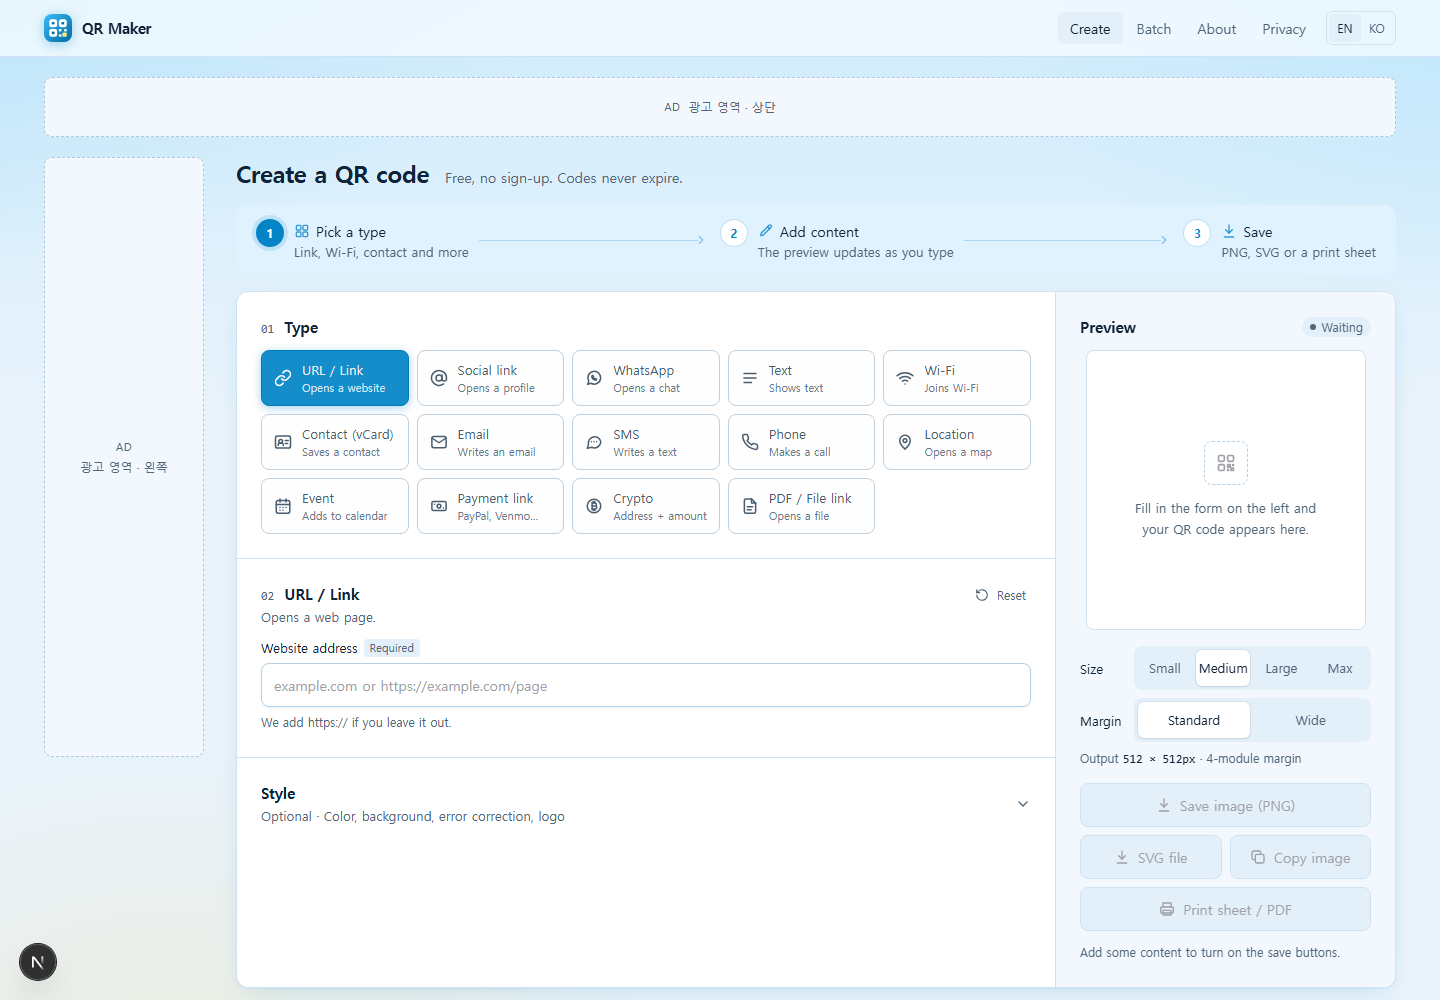
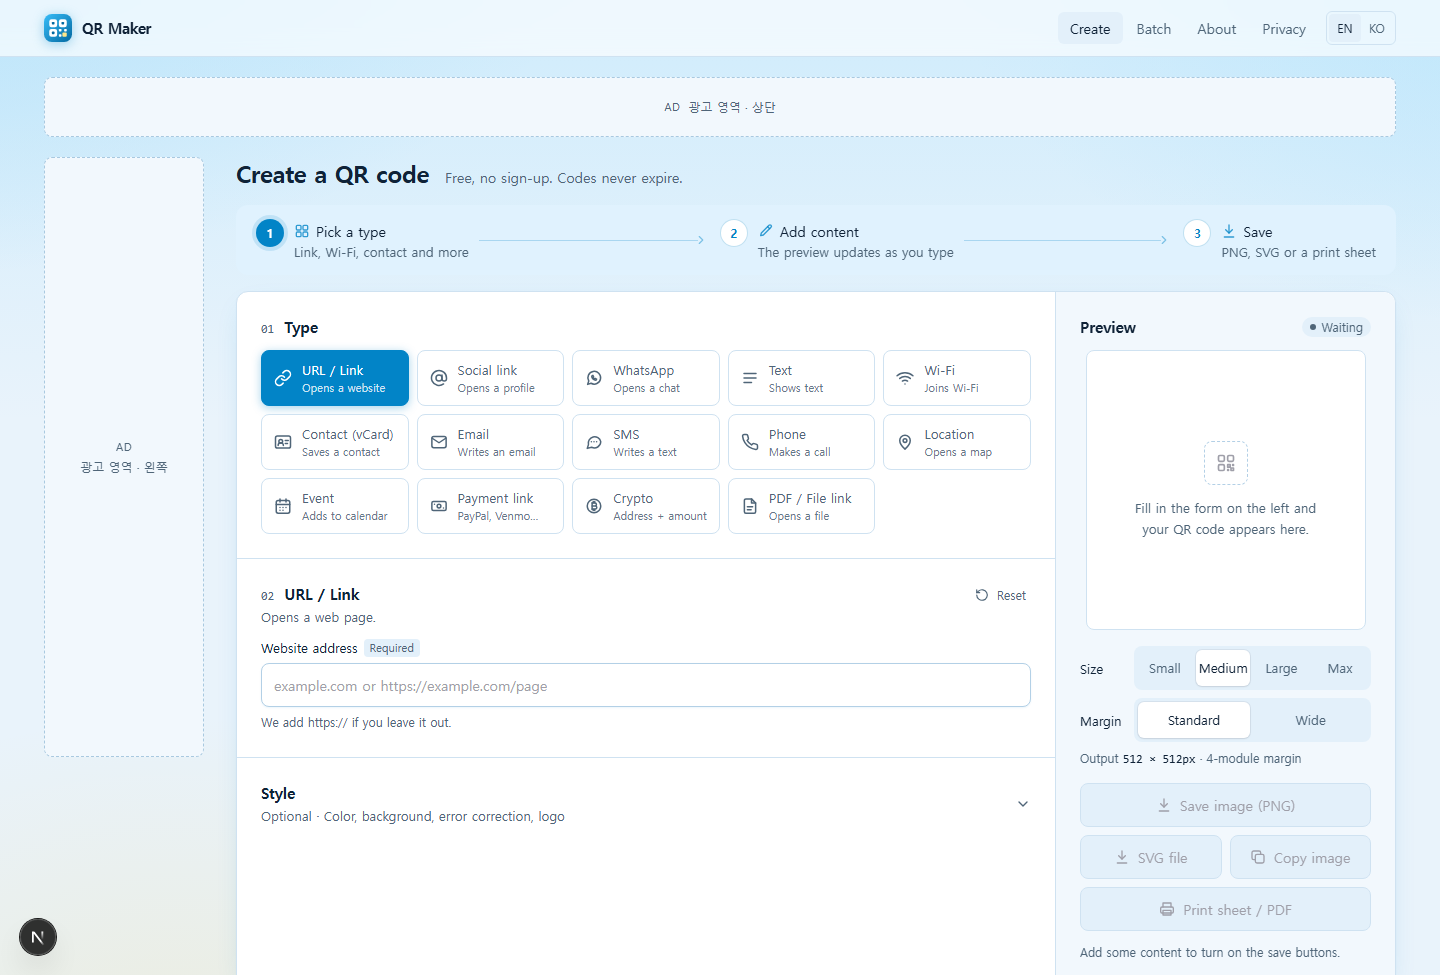
스크린샷 재촬영(카드 경계·모바일 390px 정확 크롭), ADR 6편, GitHub Actions CI

diff --git a/docs/adr/003-admin-hidden-behind-gate.md b/docs/adr/003-admin-hidden-behind-gate.md
@@ -1,0 +1,25 @@
+# ADR-003: 관리자 영역은 존재 자체를 숨긴다
+
+- 상태: 채택 (2026-10-02)
+- 결정자: 운영자
+
+## 맥락
+
+관리자는 운영자 1명이다. 공개 사이트의 `/admin`에 로그인 폼이 노출되면 무차별 대입·취약점 스캐너의 상시 표적이 된다. 운영자의 요구는 "주소창으로는 아무도 못 들어오고 나만 들어갈 수 있게"였다.
+
+## 결정
+
+세 계층을 겹친다.
+
+1. **비밀 입구 경로** `ADMIN_PATH`(예: `/gate-7f3a9c2e`). 이 경로를 열면 서명된 게이트 쿠키(30일)를 발급하고 로그인으로 보낸다. 게이트 쿠키가 없으면 `/admin/*`과 관리자 API는 **앱의 일반 404 페이지와 동일한 응답**을 돌려준다(본문 크기까지 동일 — 존재 여부를 알 수 없게).
+2. **비밀번호 + TOTP**(RFC 6238, 의존성 없이 구현, 코드 재사용 차단). 5회 실패 시 10분 잠금, 실패마다 지연, Origin 검사.
+3. **IP 허용목록**(선택) — 지정 IP/CIDR 외에는 입구 경로조차 404.
+
+세션은 HTTPS에서 `__Host-` 접두 쿠키, `SameSite=Strict`, 브라우저 지문 바인딩, 24시간 만료. 관리자 응답에 `noindex`, robots.txt에 경로를 적지 않는다.
+
+## 결과
+
+- 공격 표면이 "비밀 경로를 알고, 비밀번호를 알고, OTP 기기를 가진" 사람으로 줄어든다.
+- 운영자는 입구 URL을 북마크해야 한다(30일마다 한 번). 다른 기기에서는 입구부터 다시.
+- 게이트 토큰과 세션 토큰은 서로 다른 키로 서명되어 상호 재사용이 불가능하다(리뷰에서 검증).
+- `X-Real-IP`를 신뢰하므로 앱 포트는 리버스 프록시(Caddy) 뒤에만 두고 외부에 publish하지 않는다.

diff --git a/docs/adr/006-postgresql-drizzle.md b/docs/adr/006-postgresql-drizzle.md
@@ -1,0 +1,23 @@
+# ADR-006: 데이터 계층을 PostgreSQL + Drizzle ORM으로 전환한다
+
+- 상태: 채택 (2026-10-02)
+- 결정자: 운영자
+
+## 맥락
+
+초기 구현은 better-sqlite3(동기 API, 단일 파일)였다. 트래픽 규모상 충분했고 운영도 단순했지만, 운영자의 다른 프로젝트(Next.js + Drizzle + PostgreSQL)와 스택이 어긋났고, 포트폴리오·기업 환경 관점에서 "실제 서비스 DB"로서의 설득력이 약했다. 동시 쓰기, 스키마 마이그레이션 이력, 표준 백업(`pg_dump`), 관리형 DB(RDS 등)로의 이전 경로도 필요했다.
+
+## 결정
+
+- PostgreSQL 16을 같은 서버의 Docker Compose 서비스로 운영한다(포트 비공개, 명명된 볼륨).
+- Drizzle ORM으로 스키마를 코드로 정의하고 `drizzle-kit`으로 마이그레이션 SQL을 생성해 저장소에 커밋한다. 컨테이너 시작 시 마이그레이션을 자동 적용한다.
+- `payload_json`·`options_json`은 `jsonb`, 시각은 `timestamptz`. 관리자 집계는 KST(`Asia/Seoul`) 기준으로 DB에서 변환한다.
+- 빌드(`next build`)는 DB 없이 성공해야 한다 — 연결은 요청 시점에만 지연 생성한다.
+- 백업은 `scripts/backup.sh`(`pg_dump` + gzip, 30일 보관).
+
+## 결과
+
+- 운영 비용은 그대로 0(무료 티어 메모리로 충분).
+- 모든 데이터 함수가 비동기가 되어 호출부(레이아웃·페이지·API·서버 액션)가 `await`로 바뀌었다.
+- `DATABASE_URL` 하나만 바꾸면 관리형 PostgreSQL로 이전할 수 있다.
+- 로컬 개발에 Postgres 컨테이너(`docker-compose.local.yml`)가 필요해졌다.

diff --git a/docs/adr/005-path-based-i18n-english-default.md b/docs/adr/005-path-based-i18n-english-default.md
@@ -1,0 +1,22 @@
+# ADR-005: 경로 기반 i18n, 영어 기본
+
+- 상태: 채택 (2026-10-02) — 초기 `/`=한국어, `/en`=영어에서 뒤집음
+- 결정자: 운영자
+
+## 맥락
+
+운영자는 한국어 사용자지만 QR 생성기의 검색 수요는 영어권이 압도적이다. 쿠키/Accept-Language 기반 언어 전환은 검색엔진이 언어별 페이지를 따로 색인하지 못한다.
+
+## 결정
+
+- URL 경로로 언어를 나눈다: `/`(영어, 기본), `/ko/...`(한국어). 관리자는 한국어 고정.
+- `proxy.ts`가 경로를 보고 `x-locale` 요청 헤더를 설정하고(클라이언트가 보낸 값은 덮어씀), 루트 레이아웃이 `<html lang>`·헤더·푸터 언어를 정한다.
+- 페이지 본문은 `components/pages/*`로 공유하고 `app/ko/*`는 얇은 래퍼. 모든 문구는 `lib/i18n/{en,ko}.ts` 사전(타입으로 누락 검출).
+- 모든 페이지에 hreflang(en/ko/x-default=en), sitemap에 양쪽 URL. 이전 `/en/*`는 301.
+- 타입별 랜딩 콘텐츠는 번역이 아니라 언어별로 따로 쓴다.
+
+## 결과
+
+- 검색엔진이 언어별로 독립 색인·랭킹한다. 영어 롱테일 키워드(`whatsapp qr code generator` 등)가 주 유입 경로가 된다.
+- 사전 파일이 커지고(랜딩 포함 수천 줄) 문구 추가 시 두 언어를 모두 채워야 한다 — 타입 검사가 강제한다.
+- 기본값(사이트명·설명·푸터)은 영어로 바뀌었고, 관리자 설정으로 덮어쓸 수 있다.

diff --git a/docs/adr/001-static-qr-only.md b/docs/adr/001-static-qr-only.md
@@ -1,0 +1,21 @@
+# ADR-001: 동적 QR 대신 정적 QR만 제공한다
+
+- 상태: 채택 (2026-10-02)
+- 결정자: 운영자
+
+## 맥락
+
+시장의 QR 생성 서비스 대부분은 "동적 QR"(QR에 서비스의 단축 URL을 담고 서버가 목적지로 리다이렉트)을 기본으로 한다. 목적지 수정·스캔 통계가 가능하지만, 사용자가 인쇄한 QR이 서비스 가동에 종속되고 이를 구독 결제로 전환하는 BM이 일반적이다.
+
+이 서비스는 개인 서버(Oracle Cloud 무료 티어)에서 운영하며, 운영자가 24시간 가용성을 보장할 수 없다.
+
+## 결정
+
+QR 코드에는 **사용자가 입력한 내용 자체**(URL, `WIFI:` 문자열, vCard, `wa.me` 링크 등)만 담는다. 서비스 도메인을 경유하는 리다이렉트, 추적 파라미터, 단축 URL을 넣지 않는다. 사용자가 올린 로고를 중앙에 합성하는 것은 허용하되 서비스 브랜딩·워터마크는 넣지 않는다.
+
+## 결과
+
+- 사용자의 QR은 이 서비스가 사라져도 영구히 동작한다. "never expires, no sign-up"이 핵심 차별점이 된다.
+- 스캔 통계·목적지 수정 기능은 제공할 수 없다. 이 수요는 의도적으로 포기한다.
+- 피싱 링크 중계 책임, Safe Browsing 차단 위험, 계정·결제 시스템 운영 부담이 사라진다.
+- 수익은 광고(AdSense)와 검색 유입에 의존하므로, 타입별 랜딩 페이지(SEO)가 성장 레버가 된다.

diff --git a/docs/adr/002-log-on-save-only.md b/docs/adr/002-log-on-save-only.md
@@ -1,0 +1,19 @@
+# ADR-002: 방문자 입력은 저장 행동 시점에만 기록한다
+
+- 상태: 채택 (2026-10-02) — 1차 구현(입력 1.5초 디바운스 자동 기록)과 2차(명시적 "생성" 버튼)를 거쳐 확정
+- 결정자: 운영자
+
+## 맥락
+
+운영자는 "누가 어떤 QR을 만들었는지"를 서버 DB에 남기길 원했다. 1차 구현은 입력이 1.5초 멈출 때마다 전송했는데, 운영자가 직접 써 보니 "타이핑할 때마다 저장되는" 느낌이 불쾌했고 미완성 입력이 기록에 쌓였다. "생성" 버튼을 두는 2차 구현은 실시간 미리보기의 장점을 죽였다.
+
+## 결정
+
+미리보기는 입력 즉시 브라우저에서 렌더하되 서버로는 아무것도 보내지 않는다. **PNG/SVG 다운로드, 클립보드 복사, 인쇄 안내판, 일괄 ZIP** — 사용자가 결과물을 가져가는 행동 — 에서만 `POST /api/log`로 1건을 기록한다. 이벤트 종류(`download_png`, `download_svg`, `copy`, `print`, `batch`)를 함께 저장해 "무엇으로 가져갔는지"만 구분한다.
+
+## 결과
+
+- 기록 1건 = 실제로 만들어진 QR 1개. 관리자 통계가 의미를 갖는다.
+- 입력 도중 데이터는 서버에 도달하지 않으므로 개인정보 노출 면적이 줄어든다.
+- 미리보기만 보고 떠난 방문자는 기록되지 않는다(의도된 손실).
+- 일괄 생성은 전체 목록 대신 건수와 앞 3줄 샘플(200자)만 기록한다.

diff --git a/docs/adr/004-mask-secrets-before-storage.md b/docs/adr/004-mask-secrets-before-storage.md
@@ -1,0 +1,21 @@
+# ADR-004: 민감값은 저장 전 양쪽에서 마스킹한다
+
+- 상태: 채택 (2026-10-02) — 초기의 "설정으로 끌 수 있는 마스킹"은 리뷰 지적으로 폐기
+- 결정자: 운영자
+
+## 맥락
+
+Wi-Fi QR은 비밀번호를 평문으로 담는다. 운영자가 방문자 입력을 기록하므로 비밀번호가 DB·CSV·감사 로그에 남을 위험이 있다. 1차 구현은 관리자 설정 `mask_wifi_password`로 마스킹을 끌 수 있었고, 길이 기반 마스킹(`********`)이 비밀번호 길이를 노출했다.
+
+## 결정
+
+- 클라이언트는 전송 전에 `password`를 `****`로, 인코딩 문자열의 `P:…;`를 `P:****;`로 바꾼다.
+- 서버는 받은 값과 무관하게 저장 직전에 다시 고정 `****`로 덮어쓴다(`hardenSecretsForStorage`). 텍스트 타입에 `WIFI:` 문자열을 붙여 넣은 경우도 같은 규칙을 적용한다.
+- 자르기(200자) 전에 마스킹해 잘린 꼬리에 비밀번호 조각이 남지 않게 한다.
+- 이 동작을 끄는 설정은 두지 않는다.
+
+## 결과
+
+- DB·CSV 어디에도 비밀번호 원문과 길이가 남지 않는다(리뷰에서 DB 전수 확인).
+- 운영자도 방문자의 Wi-Fi 비밀번호를 볼 수 없다. 이는 의도된 제약이다.
+- 다른 민감 타입(암호화폐 주소 등)은 공개 정보로 보고 마스킹하지 않는다.

diff --git a/docs/adr/README.md b/docs/adr/README.md
@@ -1,0 +1,12 @@
+# Architecture Decision Records
+
+프로젝트의 주요 설계 결정을 결정 시점의 맥락과 함께 기록합니다. 형식은 [MADR](https://adr.github.io/madr/) 축약형.
+
+| 번호 | 제목 | 상태 |
+| --- | --- | --- |
+| [ADR-001](001-static-qr-only.md) | 동적 QR(리다이렉트) 대신 정적 QR만 제공한다 | 채택 |
+| [ADR-002](002-log-on-save-only.md) | 방문자 입력은 저장 행동(다운로드·복사·인쇄) 시점에만 기록한다 | 채택 |
+| [ADR-003](003-admin-hidden-behind-gate.md) | 관리자 영역은 비밀 입구 + OTP + IP 허용목록으로 존재 자체를 숨긴다 | 채택 |
+| [ADR-004](004-mask-secrets-before-storage.md) | 민감값(Wi-Fi 비밀번호)은 클라이언트와 서버 양쪽에서 저장 전 마스킹한다 | 채택 |
+| [ADR-005](005-path-based-i18n-english-default.md) | 경로 기반 i18n, 영어를 기본 언어로 둔다 | 채택 |
+| [ADR-006](006-postgresql-drizzle.md) | 데이터 계층을 SQLite에서 PostgreSQL + Drizzle ORM으로 전환한다 | 채택 |
